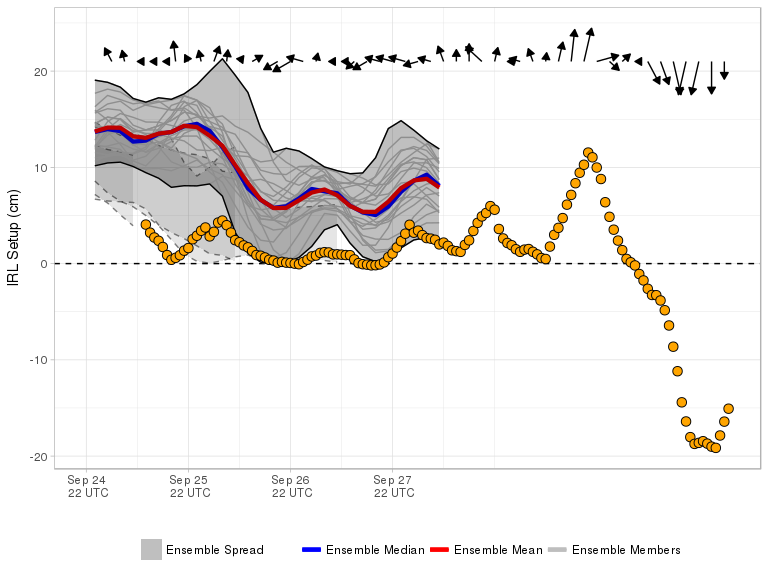
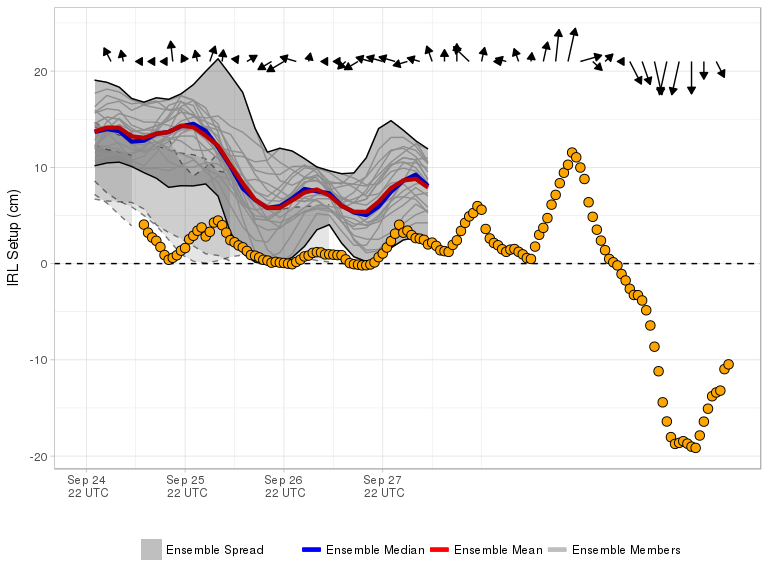
Forecast Update 2020100106

diff --git a/docs/index.md b/docs/index.md
@@ -1,9 +1,9 @@
-Current Forecast 2020-10-01 00Z
+Current Forecast 2020-10-01 06Z
 -----------------------------------
 
 [![](img/raw_setup.png)](https://fit-winds.github.io/IRLSetup/img/raw_setup.png)
 
-> Forecast valid 2020-10-01 01:38:49.
+> Forecast valid 2020-10-01 06:58:02.
 
 Explanation
 -----------
